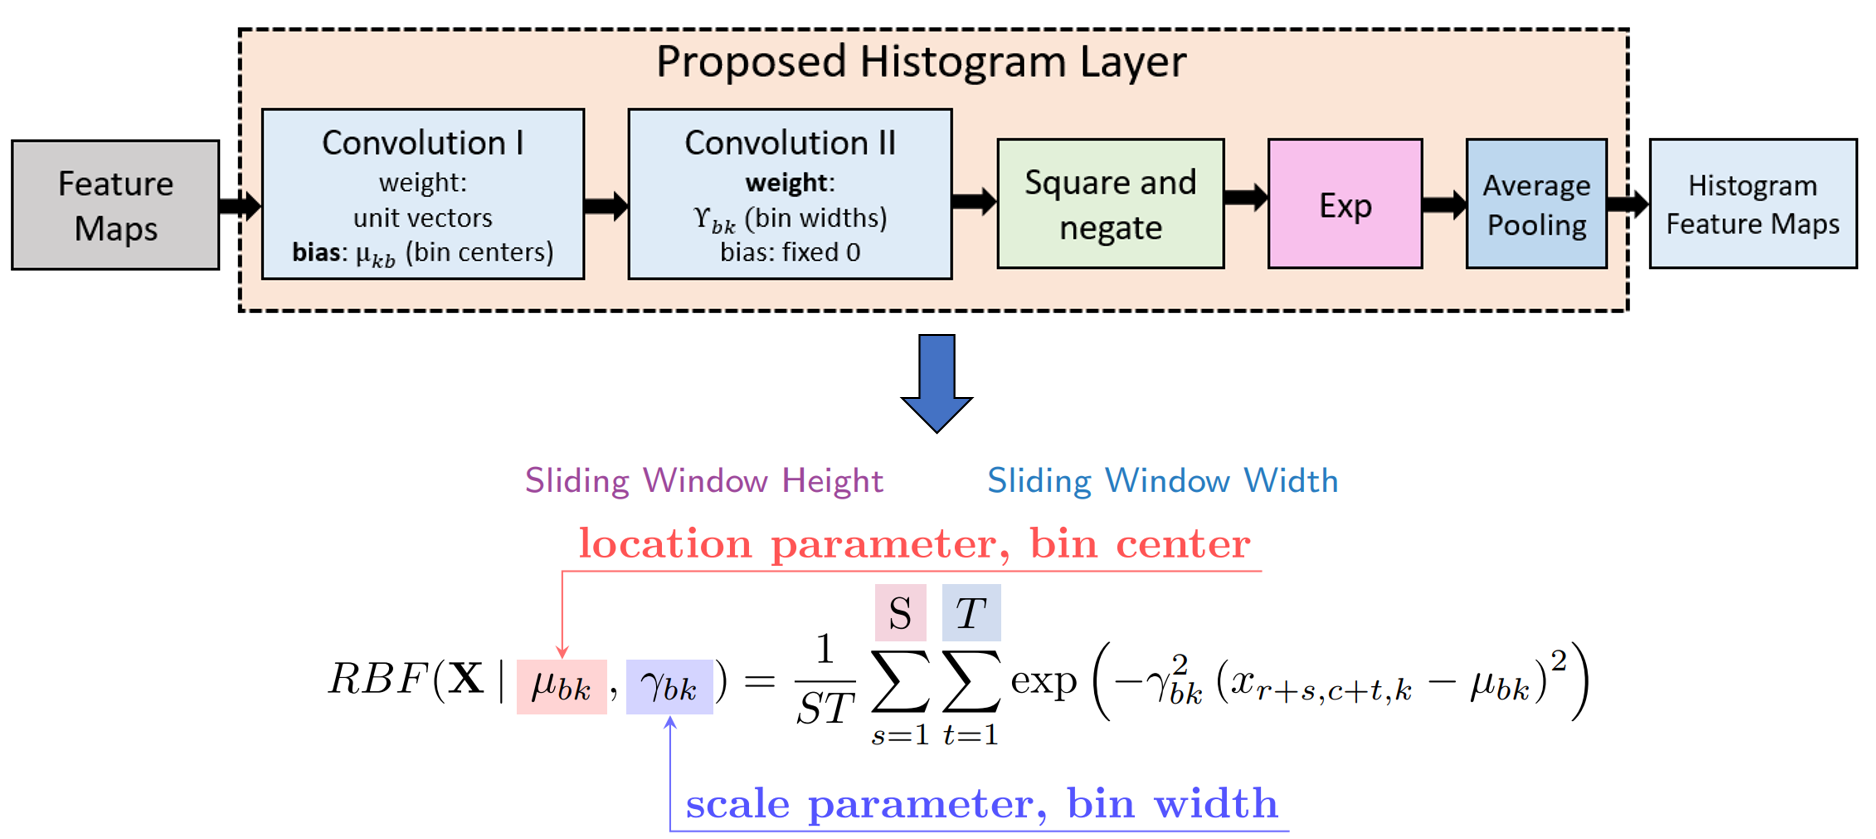
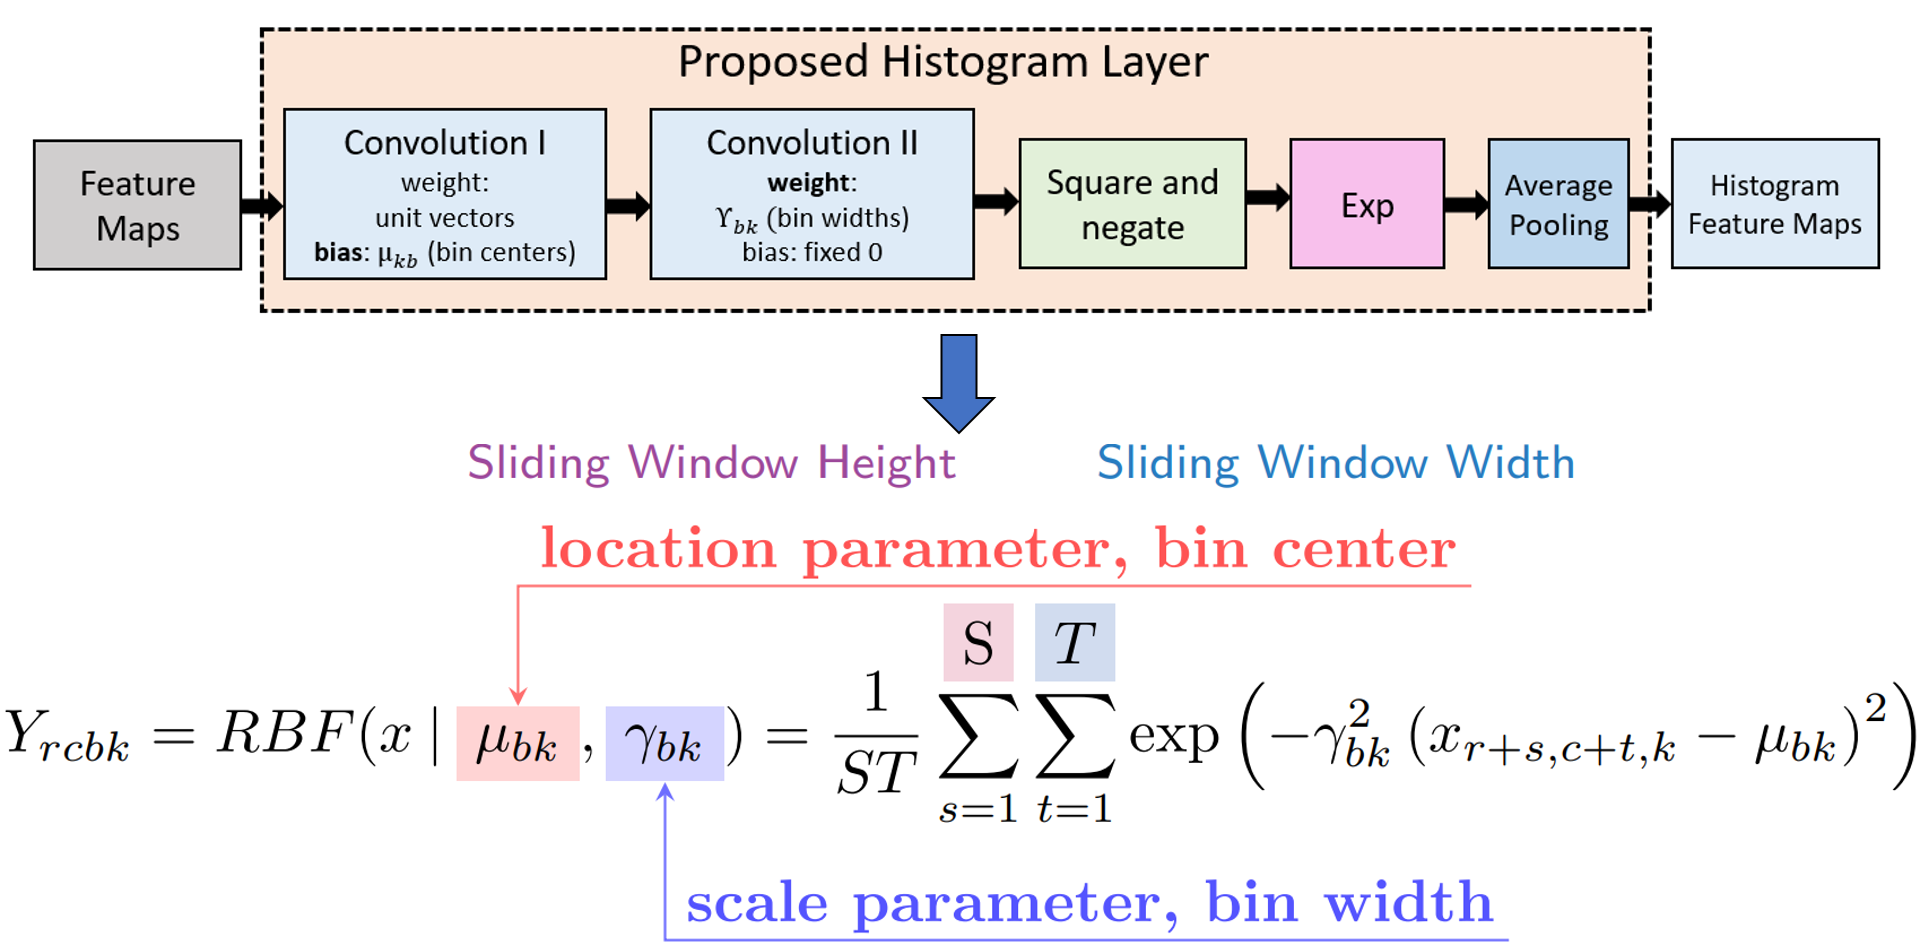
Edits from AZ and TG

diff --git a/_posts/2021-12-29-Histogram_Layer.md b/_posts/2021-12-29-Histogram_Layer.md
@@ -7,7 +7,7 @@ tags: [deep learning, histograms, image classification, texture analysis]
 
 ## Problem Statement: Shortcomings of Convolutional Neural Networks
 Convolutional neural networks (CNNs) have shown tremendous ability for a variety of applications.  One reason for the success of CNNs are that they excel at representing and detecting **structural textures**. However, they are **not** as effective at **statistical textures**. To illustrate this point, below is an example of different structural and statistical textures:
-![Texture](/images/Textures.PNG)
+![Texture](/images/Textures_v2.jpg)
 <br/>We can visually see the distinct differences between the different texture combinations. The structural textures are a checkboard, cross, and stripe. The statistical textures are shown through foreground pixels values sampled from multinomial, binomial, and constant distributions. A CNN could easily distinguish the structural textures, but would struggle with the statistical texures. 
 
 ### Why would a CNN struggle with statistical textures?
@@ -27,7 +27,7 @@ The proposed solution is a **local** histogram layer. Instead of computing globa
 <br/>![Local_Hist](/images/Stand_Hist.gif)
 
 ### Radial Basis Function Alternative 
-<br/> The standard histogram operation is not differentiable and is brittle (*i.e.*, sensitive to parameter selection). However, a smooth approximation (*i.e.*, radial basis function or RBF) can be used. RBFs have a maximum value of 1 when the feature value is equal to the bin center and the minimum value approaches 0 as the feature value moves further from the bin center. Also, RBFs are more robust to small changes in bin centers and widths than the standard histogram operation because there is some allowance of error due to the soft binning assignments and the smoothness of the RBF. The means of the RBFs (&mu;<sub>bk</sub>) serve as the location of each bin (*i.e.*, bin centers), while the bandwidth (&gamma;<sub>bk</sub>) controls the spread of each bin (*i.e.*, bin widths), where *b* is the number of histogram bins and *k* is the feature channel in the input feature tensor. The normalized frequency count is computed with a sliding window of size *S*x*T*, and the binning operation for a histogram value in the *k*<sup>th</sup> channel of the input **X** is defined as:
+<br/> The standard histogram operation is not differentiable and is brittle (*i.e.*, sensitive to parameter selection). However, a smooth approximation (*i.e.*, radial basis function or RBF) can be used. RBFs have a maximum value of 1 when the feature value is equal to the bin center and the minimum value approaches 0 as the feature value moves further from the bin center. Also, RBFs are more robust to small changes in bin centers and widths than the standard histogram operation because there is some allowance of error due to the soft binning assignments and the smoothness of the RBF. The means of the RBFs (&mu;<sub>bk</sub>) serve as the location of each bin (*i.e.*, bin centers), while the bandwidth (&gamma;<sub>bk</sub>) controls the spread of each bin (*i.e.*, bin widths), where *b* is the number of histogram bins and *k* is the feature channel in the input feature tensor. The normalized frequency count, *Y*<sub>rcbk</sub>, is computed with a sliding window of size *S*x*T*, and the binning operation for a histogram value in the *k*<sup>th</sup> channel of the input **X** is defined as:
 <br/>![RBF_equation](/images/RBF_annotated.png)
 
 We show an example of the local operation of the RBF with a 3x3 window (*S*,*T* = 3), 1 input channel (*K* = 1), and three bins (*b* = 3) below:
